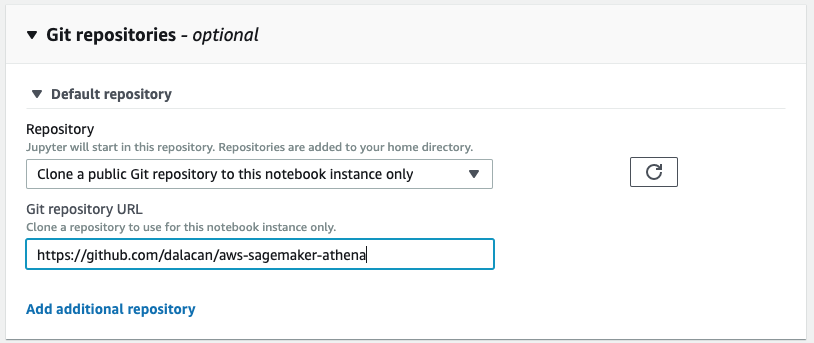
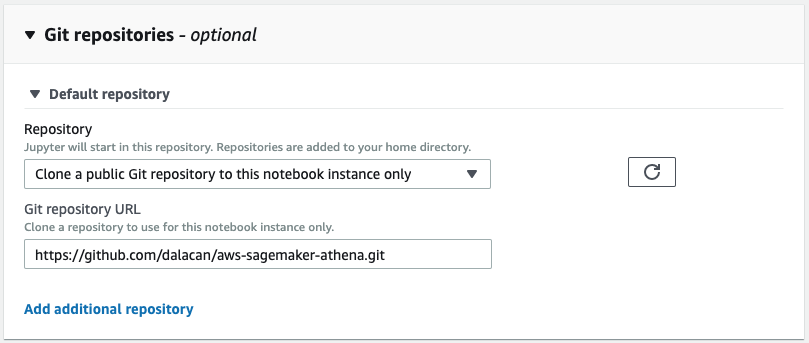
Updated readme.

diff --git a/README.md b/README.md
@@ -38,7 +38,7 @@ In this setup, you will learn how to:
     ![alt text](images/sm-step-4-2.png "Sagemaker Instance Step 4 2")
     ![alt text](images/sm-step-4-3.png "Sagemaker Instance Step 4 3")
    - Under Git repository -> Default repository, select `Clone a public Git repository to this notebook instance only`
-   - Under Git repository URL use: https://github.com/dalacan/aws-sagemaker-athena
+   - Under Git repository URL use: https://github.com/dalacan/aws-sagemaker-athena.git
     ![alt text](images/sm-step-4-4.png "Sagemaker Instance Step 4 4")
 
 5. Click `Create notebook instance`. It should take about 5 minutes for your notebook to be ready.
